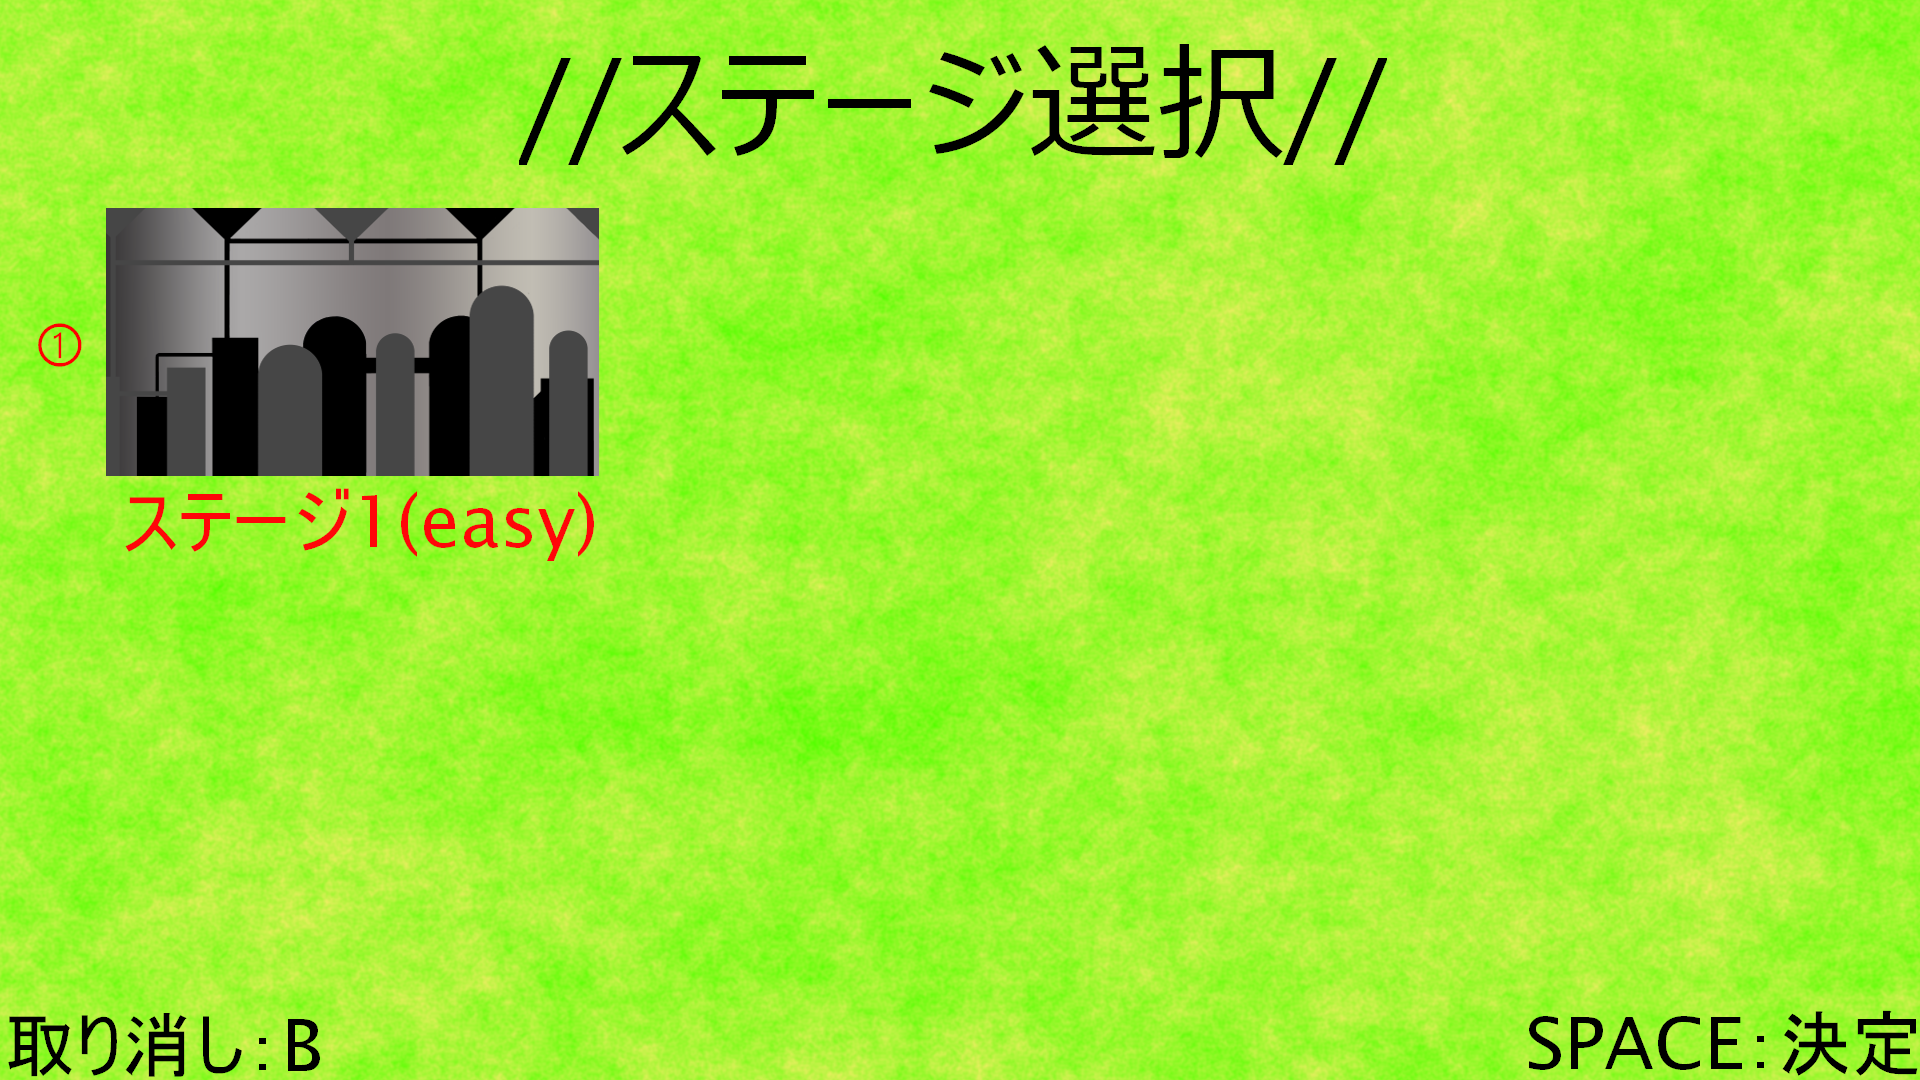
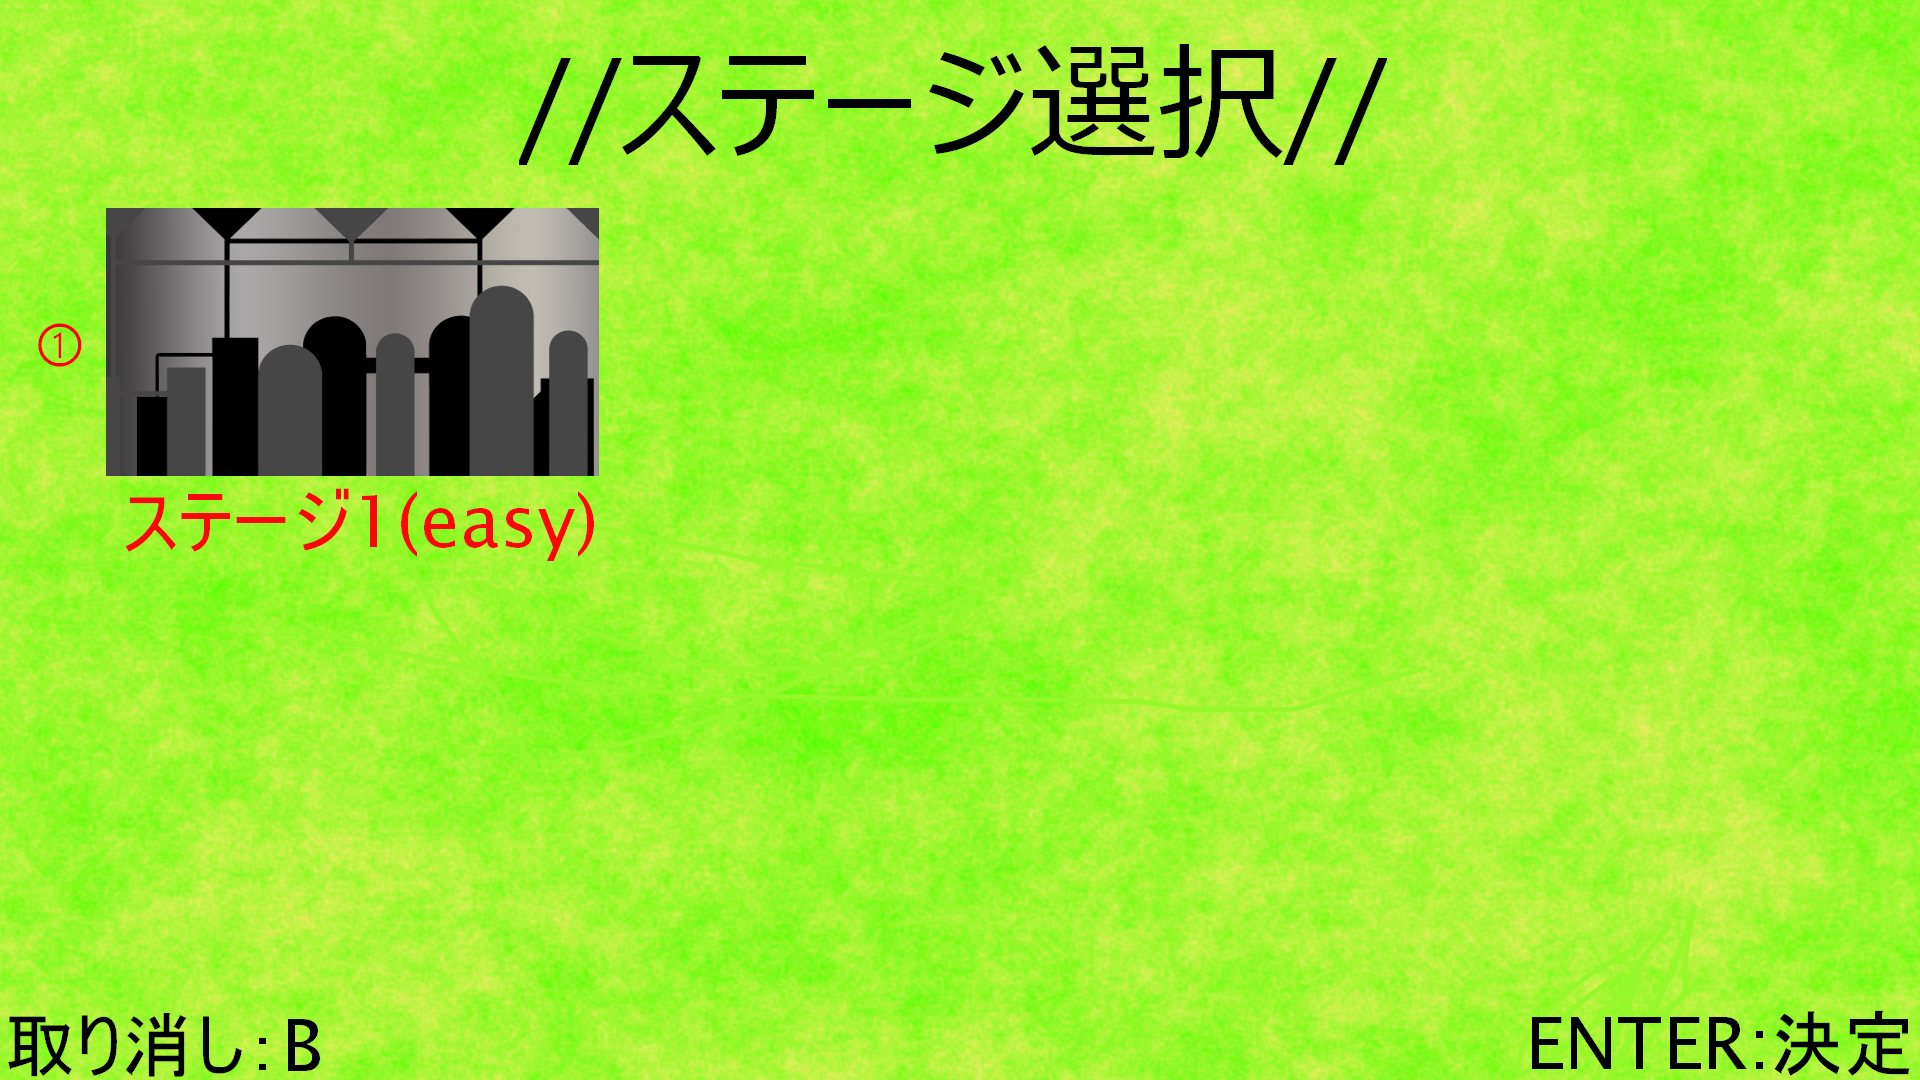
ステージ選択の修正

Changed region(s): [[0.7812, 0.9167, 1.0, 1.0], [0.6562, 0.6417, 0.6875, 0.6722]]

diff --git a/scene/GameScene.cpp b/scene/GameScene.cpp
@@ -25,6 +25,7 @@ void GameScene::Initialize() {
 	textureHandle_[3] = TextureManager::Load("Stage.png"); //ステージ選択
 	textureHandle_[4] = TextureManager::Load("waku.png"); //ステージ選択(枠)
 
+
 	//スプライトを生成
 	Explanation_ = Sprite::Create(textureHandle_[0], { 0,0 });
 	Title_ = Sprite::Create(textureHandle_[1], { 0,0 });
@@ -48,6 +49,7 @@ void GameScene::Initialize() {
 	stage5_->Initialize();
 
 	scene_ = TITLE;
+	WakuFlag = 0;
 }
 
 void GameScene::Update() {
@@ -71,11 +73,8 @@ void GameScene::Update() {
 		if (input_->TriggerKey(DIK_1))
 		{
 			WakuFlag = 1;
-			if (input_->TriggerKey(DIK_RETURN))
-			{
-				scene_ = THREE;
-			}
 		}
+
 		if (input_->TriggerKey(DIK_B) && WakuFlag == 1)
 		{
 			WakuFlag = 0;
@@ -110,35 +109,53 @@ void GameScene::Update() {
 			}
 		}
 	case THREE:
-		if (input_->TriggerKey(DIK_RETURN))
+
+		if (input_->TriggerKey(DIK_RETURN)&&WakuFlag==1)
 		{
-			scene_ = FOUR;
+			scene_ = THREE;
 		}
-		stage1_->Update();
+
+		if (scene_ == THREE)
+		{
+			stage1_->Update();
+		}
 		break;
 	case FOUR:
 		if (input_->TriggerKey(DIK_SPACE))
 		{
 			scene_ = FIVE;
 		}
-		stage2_->Update();
+		if (scene_ == FOUR)
+		{
+            stage2_->Update();
+		}
+		
 		break;
 	case FIVE:
 		if (input_->TriggerKey(DIK_SPACE))
 		{
 			scene_ = SIX;
 		}
-		stage3_->Update();
+		if (scene_ == FIVE)
+		{
+			stage3_->Update();
+		}
 		break;
 	case SIX:
 		if (input_->TriggerKey(DIK_SPACE))
 		{
 			scene_ = SEVEN;
 		}
-		stage4_->Update();
+		if (scene_ == SIX)
+		{
+			stage4_->Update();
+		}
 		break;
 	case SEVEN:
-		stage5_->Update();
+		if (scene_ == SEVEN)
+		{
+			stage5_->Update();
+		}
 	}
 }
 

diff --git a/Stage1.cpp b/Stage1.cpp
@@ -126,7 +126,7 @@ void Stage1::Update()
 		}
 	}
 
-
+	
 	if (!isrotation_[0] && !isrotation_[1] && !isrotation_[2])
 	{
 		audio_->StopWave(SEHandle_);
